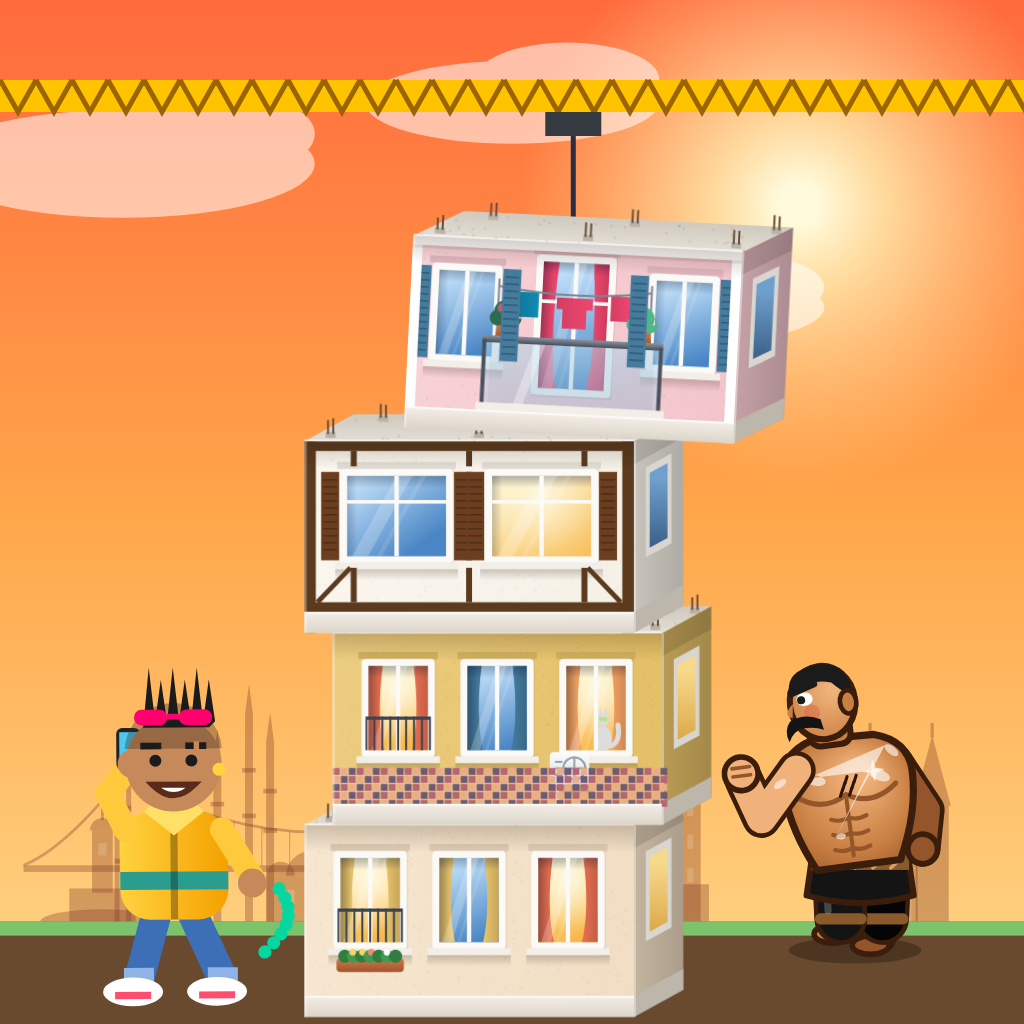
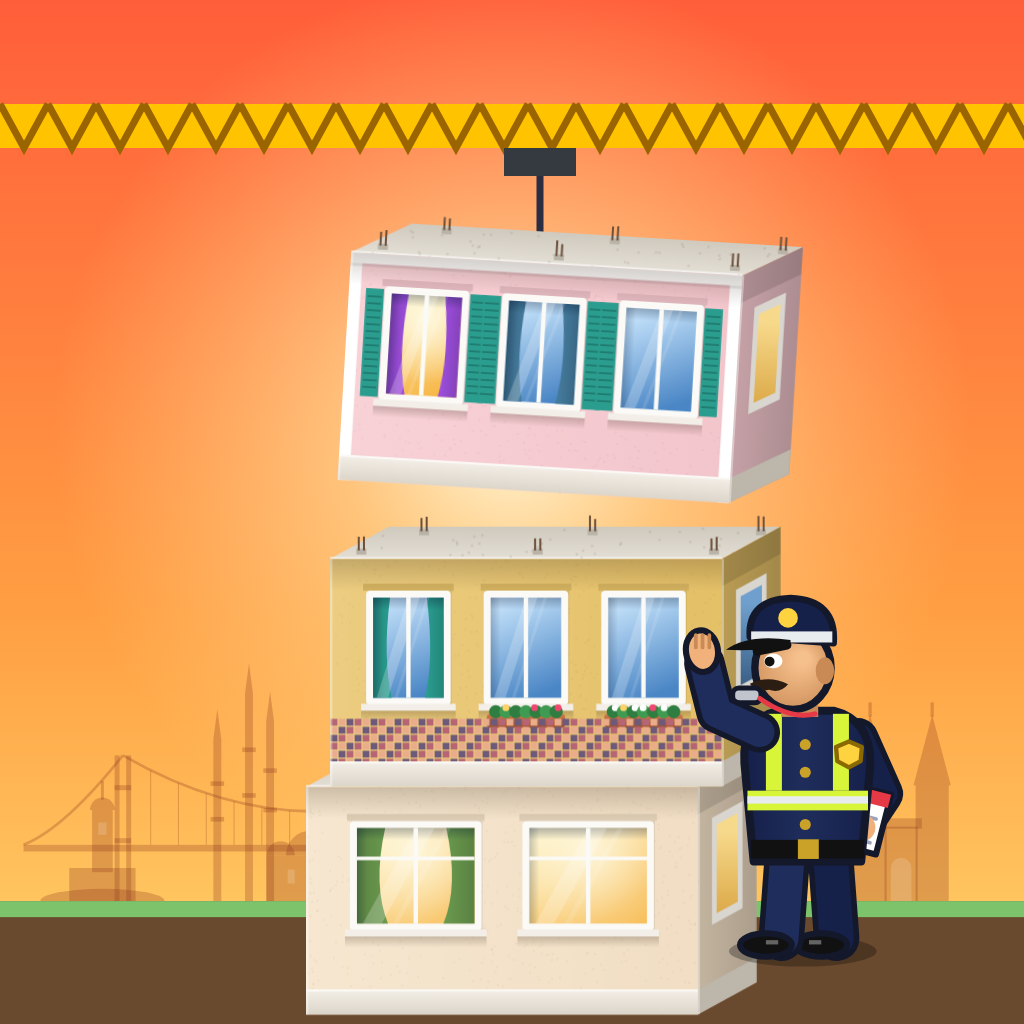
Güncelleme 2: Diyarbakır başlangıç şehri, zabıta karakteri, yeni ikon

diff --git a/app/www/index.html b/app/www/index.html
@@ -2224,8 +2224,9 @@ SONGS.karadeniz={bpm:168,root:293.66,sc:[0,2,3,5,7,9,10],mel:[0,2,3,4,3,2,0,-1,4
 SONGS.dogu={bpm:96,root:246.94,sc:[0,2,3,5,7,8,10],mel:[4,-1,3,-1,2,-1,-1,-1,0,-1,2,3,4,-1,-1,-1,5,-1,4,3,2,-1,3,-1,0,-1,-1,-1,0,-1,-1,-1],bass:[0,5,3,4],dum:[1,0,0,1,0,0,1,0],tek:[0,0,1,0,0,1,0,0],lead:'triangle'};
 SONGS.guneydogu={bpm:118,root:220,sc:[0,1,4,5,7,8,10],mel:[0,1,2,-1,2,1,0,-1,4,-1,3,2,1,-1,2,-1,4,5,6,-1,5,4,3,-1,2,1,2,-1,0,-1,-1,-1],bass:[0,3,4,0],dum:[1,0,0,1,0,1,0,0],tek:[0,1,1,0,1,0,1,1],lead:'sawtooth'};
 NEW_CITIES.forEach(C=>{SONGS[C.key]=SONGS[REGION_SONG[REGION_OF[C.key]]];});
-const STARTERS=['istanbul','izmir','adana','ankara','trabzon','erzurum','gaziantep'];
-const TIER={istanbul:0,izmir:1,adana:1,ankara:1,trabzon:1,erzurum:1,gaziantep:1,bursa:2,denizli:2,antalya:2,konya:2,rize:2,van:2,sanliurfa:2,edirne:4,bodrum:4,mersin:4,corum:4,samsun:4,kars:4,diyarbakir:4};
+const STARTERS=['istanbul','izmir','adana','ankara','trabzon','erzurum','diyarbakir'];
+{const ix=k=>CITIES.findIndex(x=>x.key===k);CITIES[ix('gaziantep')].prev=ix('diyarbakir');CITIES[ix('sanliurfa')].prev=ix('gaziantep');}
+const TIER={istanbul:0,izmir:1,adana:1,ankara:1,trabzon:1,erzurum:1,gaziantep:2,bursa:2,denizli:2,antalya:2,konya:2,rize:2,van:2,sanliurfa:4,edirne:4,bodrum:4,mersin:4,corum:4,samsun:4,kars:4,diyarbakir:1};
 const cityPrev=c=>CITIES[c].prev!=null?CITIES[c].prev:c-1;
 const bossName=c=>CITIES[c].boss||BOSSES[c];
 const bossLineOf=c=>CITIES[c].bossLine&&c>=4?CITIES[c].bossLine:BOSS_LINES[c];
@@ -2270,6 +2271,44 @@ function cityPerk(dt){const k=cityKeyNow();if(!k||cine||winT)return;const n=floo
     if(perkT<=0&&horse.x>=W*.15){perkT=Math.max(1.1,3.8-n*.14-(run.di||0)*.02);arrows.push({kind:'asker',x:horse.x+20,wy:groundWY()-30,vx:0,vy:0,hit:0,hp:2,spd:70+n*3});sBow();}}
   if(k==='edirne'&&n>=3&&!hazBusy()){perkT-=dt;if(perkT<=0&&!arrows.some(a=>a.kind==='pehlivan')){perkT=6+Math.random()*4-Math.min(2.5,(run.di||0)*.05);const dir=ch(.5)?1:-1;
       arrows.push({kind:'pehlivan',x:dir>0?-50:W+50,wy:groundWY(),dir,vx:0,vy:0,hit:0,hp:5,spd:62+(run.di||0)*.9});showBanner('PEHLİVAN GELİYOR!','Omuz atmadan 5 kere dokun!','#bc4749',1.6);babble('pehlivan','HAAYDİ ALLAH ALLAH!',true);tone(180,.4,'sawtooth',.08,-60);}}}
+function drawZabita(x,y,dir,sc){ctx.save();ctx.translate(x,y);ctx.scale(dir*(sc||1.5),sc||1.5);
+  const p=t*7,s=Math.sin(p),OL='#14182b',NV='#1f2d5c',NV2='#16214a',SK='#f0b27a',SK2='#c98a55';ctx.lineJoin='round';ctx.lineCap='round';
+  ctx.fillStyle='rgba(0,0,0,.28)';ctx.beginPath();ctx.ellipse(1,16.6,12,2.5,0,0,7);ctx.fill();
+  const seg=(pts,w,col)=>{ctx.beginPath();ctx.moveTo(pts[0],pts[1]);for(let i=2;i<pts.length;i+=2)ctx.lineTo(pts[i],pts[i+1]);ctx.strokeStyle=OL;ctx.lineWidth=w+1.8;ctx.stroke();ctx.strokeStyle=col;ctx.lineWidth=w;ctx.stroke();};
+  // bacaklar + ayakkabı
+  [[-3.5,1,NV2],[3.5,0,NV]].forEach(([hx,bk,col])=>{seg([hx,1,hx+(bk?-1:1),14.5],5.6,col);ctx.fillStyle='#111';ctx.strokeStyle=OL;ctx.lineWidth=1;ctx.beginPath();ctx.ellipse(hx+(bk?0:2)+1.5,15.6,4.2,1.9,0,0,7);ctx.fill();ctx.stroke();ctx.fillStyle='rgba(255,255,255,.35)';ctx.fillRect(hx+1.5,14.8,2,.7);});
+  // arka kol (ceza makbuzu)
+  seg([-8,-18,-12,-9,-8,-3],4.8,NV2);ctx.save();ctx.translate(-8,-4);ctx.rotate(-.25);ctx.fillStyle='#fff';ctx.strokeStyle=OL;ctx.lineWidth=1;ctx.fillRect(-4,-6,8,10);ctx.strokeRect(-4,-6,8,10);ctx.fillStyle='#e63946';ctx.fillRect(-4,-6,8,2.2);ctx.strokeStyle='#9aa3bd';ctx.lineWidth=.6;for(let i=0;i<3;i++){ctx.beginPath();ctx.moveTo(-2.6,-1.6+i*2);ctx.lineTo(2.6,-1.6+i*2);ctx.stroke();}ctx.restore();
+  ctx.fillStyle=SK;ctx.beginPath();ctx.arc(-8.5,-3.5,2.3,0,7);ctx.fill();
+  // gövde: lacivert ceket
+  const g=ctx.createLinearGradient(-10,0,10,0);g.addColorStop(0,NV2);g.addColorStop(.55,NV);g.addColorStop(1,NV2);ctx.fillStyle=g;ctx.strokeStyle=OL;ctx.lineWidth=1.3;
+  ctx.beginPath();ctx.moveTo(-8.5,2);ctx.lineTo(-10,-14);ctx.quadraticCurveTo(-10,-21,-4,-22.5);ctx.lineTo(5,-22.5);ctx.quadraticCurveTo(11,-21,10.5,-14);ctx.lineTo(9,2);ctx.closePath();ctx.fill();ctx.stroke();
+  // reflektif yelek şeritleri
+  ctx.fillStyle='#d8f53a';ctx.fillRect(-9.6,-9.5,19.6,3.2);ctx.fillStyle='#e9ecef';ctx.fillRect(-9.6,-8.6,19.6,1.2);
+  ctx.fillStyle='#d8f53a';ctx.fillRect(-6.5,-22,2.6,12.5);ctx.fillRect(4.4,-22,2.6,12.5);
+  // kemer + rozet + düğmeler
+  ctx.fillStyle='#111';ctx.fillRect(-9,-1.5,18.4,3);ctx.fillStyle='#c9a227';ctx.fillRect(-1.6,-1.6,3.4,3.2);
+  ctx.fillStyle='#ffd23f';ctx.strokeStyle='#8a6a00';ctx.lineWidth=.7;ctx.beginPath();ctx.moveTo(-6.5,-17.5);ctx.lineTo(-4.4,-16.6);ctx.lineTo(-4.6,-14.3);ctx.lineTo(-6.5,-13.3);ctx.lineTo(-8.4,-14.3);ctx.lineTo(-8.6,-16.6);ctx.closePath();ctx.fill();ctx.stroke();
+  ctx.fillStyle='#c9a227';[-17,-12.5,-4].forEach(yy=>{ctx.beginPath();ctx.arc(.6,yy,.9,0,7);ctx.fill();});
+  // boyun + kafa
+  ctx.fillStyle=SK2;ctx.fillRect(-1.5,-26,6,4.5);
+  const hg=ctx.createRadialGradient(1,-31,1,3,-29,8);hg.addColorStop(0,'#f6c08c');hg.addColorStop(1,SK2);ctx.fillStyle=hg;ctx.strokeStyle=OL;ctx.lineWidth=1.2;ctx.beginPath();ctx.ellipse(2.6,-29.5,6.2,6.8,0,0,7);ctx.fill();ctx.stroke();
+  ctx.fillStyle=SK2;ctx.beginPath();ctx.ellipse(-2.6,-29,1.5,2.2,0,0,7);ctx.fill();
+  // göz, kaş (sert bakış), bıyık, düdük
+  ctx.fillStyle='#fff';ctx.beginPath();ctx.ellipse(5.8,-30.6,1.5,1.2,0,0,7);ctx.fill();ctx.fillStyle='#111';ctx.beginPath();ctx.arc(6.4,-30.5,.8,0,7);ctx.fill();
+  ctx.strokeStyle='#111';ctx.lineWidth=1.5;ctx.beginPath();ctx.moveTo(3.6,-33.2);ctx.lineTo(8.4,-32.2);ctx.stroke();
+  ctx.fillStyle='#2b1d12';ctx.beginPath();ctx.moveTo(3.4,-26.8);ctx.quadraticCurveTo(6.5,-28.4,9.6,-26.9);ctx.quadraticCurveTo(8.8,-25.4,6.5,-25.9);ctx.quadraticCurveTo(4.6,-25.3,3.4,-26.8);ctx.fill();
+  ctx.fillStyle='#c0c4cc';ctx.strokeStyle=OL;ctx.lineWidth=.8;rr(7.8,-26.2,4.6,2.4,1);ctx.fill();ctx.stroke();ctx.strokeStyle='#e63946';ctx.lineWidth=.8;ctx.beginPath();ctx.moveTo(8,-24.5);ctx.quadraticCurveTo(3,-21,-1,-22);ctx.stroke();
+  // kasket
+  ctx.fillStyle=NV2;ctx.strokeStyle=OL;ctx.lineWidth=1.1;ctx.beginPath();ctx.moveTo(-4,-33.5);ctx.quadraticCurveTo(-4.5,-40.5,3,-40.8);ctx.quadraticCurveTo(10,-40.5,9.6,-34.5);ctx.closePath();ctx.fill();ctx.stroke();
+  ctx.fillStyle='#e9ecef';ctx.fillRect(-3.8,-35.4,13.2,1.8);
+  ctx.fillStyle='#111';ctx.beginPath();ctx.moveTo(3,-34);ctx.quadraticCurveTo(10,-35,13.5,-32.4);ctx.quadraticCurveTo(9,-32.2,3,-32.8);ctx.closePath();ctx.fill();
+  ctx.fillStyle='#ffd23f';ctx.beginPath();ctx.arc(3.4,-37.6,1.6,0,7);ctx.fill();
+  // ön kol: "DUR!" eli havada
+  const a=s*1.2;seg([8,-19,15,-21+a,17,-29+a],4.8,NV);ctx.fillStyle=SK;ctx.strokeStyle=OL;ctx.lineWidth=1;ctx.beginPath();ctx.ellipse(17.4,-31+a,2.6,3.4,.15,0,7);ctx.fill();ctx.stroke();
+  ctx.strokeStyle=SK2;ctx.lineWidth=.6;for(let i=0;i<3;i++){ctx.beginPath();ctx.moveTo(16.2+i*1.1,-33.6+a);ctx.lineTo(16.2+i*1.1,-31.6+a);ctx.stroke();}
+  ctx.restore();}
+
 function drawPehlivan(x,y,dir,hp){ctx.save();ctx.translate(x,y);ctx.scale(dir*1.5,1.5);
   const p=t*9,s=Math.sin(p),c=Math.cos(p),bob=Math.abs(s)*1.1;
   const OL='#3b1d0c',S1='#f0b27a',S2='#c97f42',S3='#94552a',KS='#141414';

diff --git a/index.html b/index.html
@@ -2225,8 +2225,9 @@ SONGS.karadeniz={bpm:168,root:293.66,sc:[0,2,3,5,7,9,10],mel:[0,2,3,4,3,2,0,-1,4
 SONGS.dogu={bpm:96,root:246.94,sc:[0,2,3,5,7,8,10],mel:[4,-1,3,-1,2,-1,-1,-1,0,-1,2,3,4,-1,-1,-1,5,-1,4,3,2,-1,3,-1,0,-1,-1,-1,0,-1,-1,-1],bass:[0,5,3,4],dum:[1,0,0,1,0,0,1,0],tek:[0,0,1,0,0,1,0,0],lead:'triangle'};
 SONGS.guneydogu={bpm:118,root:220,sc:[0,1,4,5,7,8,10],mel:[0,1,2,-1,2,1,0,-1,4,-1,3,2,1,-1,2,-1,4,5,6,-1,5,4,3,-1,2,1,2,-1,0,-1,-1,-1],bass:[0,3,4,0],dum:[1,0,0,1,0,1,0,0],tek:[0,1,1,0,1,0,1,1],lead:'sawtooth'};
 NEW_CITIES.forEach(C=>{SONGS[C.key]=SONGS[REGION_SONG[REGION_OF[C.key]]];});
-const STARTERS=['istanbul','izmir','adana','ankara','trabzon','erzurum','gaziantep'];
-const TIER={istanbul:0,izmir:1,adana:1,ankara:1,trabzon:1,erzurum:1,gaziantep:1,bursa:2,denizli:2,antalya:2,konya:2,rize:2,van:2,sanliurfa:2,edirne:4,bodrum:4,mersin:4,corum:4,samsun:4,kars:4,diyarbakir:4};
+const STARTERS=['istanbul','izmir','adana','ankara','trabzon','erzurum','diyarbakir'];
+{const ix=k=>CITIES.findIndex(x=>x.key===k);CITIES[ix('gaziantep')].prev=ix('diyarbakir');CITIES[ix('sanliurfa')].prev=ix('gaziantep');}
+const TIER={istanbul:0,izmir:1,adana:1,ankara:1,trabzon:1,erzurum:1,gaziantep:2,bursa:2,denizli:2,antalya:2,konya:2,rize:2,van:2,sanliurfa:4,edirne:4,bodrum:4,mersin:4,corum:4,samsun:4,kars:4,diyarbakir:1};
 const cityPrev=c=>CITIES[c].prev!=null?CITIES[c].prev:c-1;
 const bossName=c=>CITIES[c].boss||BOSSES[c];
 const bossLineOf=c=>CITIES[c].bossLine&&c>=4?CITIES[c].bossLine:BOSS_LINES[c];
@@ -2271,6 +2272,44 @@ function cityPerk(dt){const k=cityKeyNow();if(!k||cine||winT)return;const n=floo
     if(perkT<=0&&horse.x>=W*.15){perkT=Math.max(1.1,3.8-n*.14-(run.di||0)*.02);arrows.push({kind:'asker',x:horse.x+20,wy:groundWY()-30,vx:0,vy:0,hit:0,hp:2,spd:70+n*3});sBow();}}
   if(k==='edirne'&&n>=3&&!hazBusy()){perkT-=dt;if(perkT<=0&&!arrows.some(a=>a.kind==='pehlivan')){perkT=6+Math.random()*4-Math.min(2.5,(run.di||0)*.05);const dir=ch(.5)?1:-1;
       arrows.push({kind:'pehlivan',x:dir>0?-50:W+50,wy:groundWY(),dir,vx:0,vy:0,hit:0,hp:5,spd:62+(run.di||0)*.9});showBanner('PEHLİVAN GELİYOR!','Omuz atmadan 5 kere dokun!','#bc4749',1.6);babble('pehlivan','HAAYDİ ALLAH ALLAH!',true);tone(180,.4,'sawtooth',.08,-60);}}}
+function drawZabita(x,y,dir,sc){ctx.save();ctx.translate(x,y);ctx.scale(dir*(sc||1.5),sc||1.5);
+  const p=t*7,s=Math.sin(p),OL='#14182b',NV='#1f2d5c',NV2='#16214a',SK='#f0b27a',SK2='#c98a55';ctx.lineJoin='round';ctx.lineCap='round';
+  ctx.fillStyle='rgba(0,0,0,.28)';ctx.beginPath();ctx.ellipse(1,16.6,12,2.5,0,0,7);ctx.fill();
+  const seg=(pts,w,col)=>{ctx.beginPath();ctx.moveTo(pts[0],pts[1]);for(let i=2;i<pts.length;i+=2)ctx.lineTo(pts[i],pts[i+1]);ctx.strokeStyle=OL;ctx.lineWidth=w+1.8;ctx.stroke();ctx.strokeStyle=col;ctx.lineWidth=w;ctx.stroke();};
+  // bacaklar + ayakkabı
+  [[-3.5,1,NV2],[3.5,0,NV]].forEach(([hx,bk,col])=>{seg([hx,1,hx+(bk?-1:1),14.5],5.6,col);ctx.fillStyle='#111';ctx.strokeStyle=OL;ctx.lineWidth=1;ctx.beginPath();ctx.ellipse(hx+(bk?0:2)+1.5,15.6,4.2,1.9,0,0,7);ctx.fill();ctx.stroke();ctx.fillStyle='rgba(255,255,255,.35)';ctx.fillRect(hx+1.5,14.8,2,.7);});
+  // arka kol (ceza makbuzu)
+  seg([-8,-18,-12,-9,-8,-3],4.8,NV2);ctx.save();ctx.translate(-8,-4);ctx.rotate(-.25);ctx.fillStyle='#fff';ctx.strokeStyle=OL;ctx.lineWidth=1;ctx.fillRect(-4,-6,8,10);ctx.strokeRect(-4,-6,8,10);ctx.fillStyle='#e63946';ctx.fillRect(-4,-6,8,2.2);ctx.strokeStyle='#9aa3bd';ctx.lineWidth=.6;for(let i=0;i<3;i++){ctx.beginPath();ctx.moveTo(-2.6,-1.6+i*2);ctx.lineTo(2.6,-1.6+i*2);ctx.stroke();}ctx.restore();
+  ctx.fillStyle=SK;ctx.beginPath();ctx.arc(-8.5,-3.5,2.3,0,7);ctx.fill();
+  // gövde: lacivert ceket
+  const g=ctx.createLinearGradient(-10,0,10,0);g.addColorStop(0,NV2);g.addColorStop(.55,NV);g.addColorStop(1,NV2);ctx.fillStyle=g;ctx.strokeStyle=OL;ctx.lineWidth=1.3;
+  ctx.beginPath();ctx.moveTo(-8.5,2);ctx.lineTo(-10,-14);ctx.quadraticCurveTo(-10,-21,-4,-22.5);ctx.lineTo(5,-22.5);ctx.quadraticCurveTo(11,-21,10.5,-14);ctx.lineTo(9,2);ctx.closePath();ctx.fill();ctx.stroke();
+  // reflektif yelek şeritleri
+  ctx.fillStyle='#d8f53a';ctx.fillRect(-9.6,-9.5,19.6,3.2);ctx.fillStyle='#e9ecef';ctx.fillRect(-9.6,-8.6,19.6,1.2);
+  ctx.fillStyle='#d8f53a';ctx.fillRect(-6.5,-22,2.6,12.5);ctx.fillRect(4.4,-22,2.6,12.5);
+  // kemer + rozet + düğmeler
+  ctx.fillStyle='#111';ctx.fillRect(-9,-1.5,18.4,3);ctx.fillStyle='#c9a227';ctx.fillRect(-1.6,-1.6,3.4,3.2);
+  ctx.fillStyle='#ffd23f';ctx.strokeStyle='#8a6a00';ctx.lineWidth=.7;ctx.beginPath();ctx.moveTo(-6.5,-17.5);ctx.lineTo(-4.4,-16.6);ctx.lineTo(-4.6,-14.3);ctx.lineTo(-6.5,-13.3);ctx.lineTo(-8.4,-14.3);ctx.lineTo(-8.6,-16.6);ctx.closePath();ctx.fill();ctx.stroke();
+  ctx.fillStyle='#c9a227';[-17,-12.5,-4].forEach(yy=>{ctx.beginPath();ctx.arc(.6,yy,.9,0,7);ctx.fill();});
+  // boyun + kafa
+  ctx.fillStyle=SK2;ctx.fillRect(-1.5,-26,6,4.5);
+  const hg=ctx.createRadialGradient(1,-31,1,3,-29,8);hg.addColorStop(0,'#f6c08c');hg.addColorStop(1,SK2);ctx.fillStyle=hg;ctx.strokeStyle=OL;ctx.lineWidth=1.2;ctx.beginPath();ctx.ellipse(2.6,-29.5,6.2,6.8,0,0,7);ctx.fill();ctx.stroke();
+  ctx.fillStyle=SK2;ctx.beginPath();ctx.ellipse(-2.6,-29,1.5,2.2,0,0,7);ctx.fill();
+  // göz, kaş (sert bakış), bıyık, düdük
+  ctx.fillStyle='#fff';ctx.beginPath();ctx.ellipse(5.8,-30.6,1.5,1.2,0,0,7);ctx.fill();ctx.fillStyle='#111';ctx.beginPath();ctx.arc(6.4,-30.5,.8,0,7);ctx.fill();
+  ctx.strokeStyle='#111';ctx.lineWidth=1.5;ctx.beginPath();ctx.moveTo(3.6,-33.2);ctx.lineTo(8.4,-32.2);ctx.stroke();
+  ctx.fillStyle='#2b1d12';ctx.beginPath();ctx.moveTo(3.4,-26.8);ctx.quadraticCurveTo(6.5,-28.4,9.6,-26.9);ctx.quadraticCurveTo(8.8,-25.4,6.5,-25.9);ctx.quadraticCurveTo(4.6,-25.3,3.4,-26.8);ctx.fill();
+  ctx.fillStyle='#c0c4cc';ctx.strokeStyle=OL;ctx.lineWidth=.8;rr(7.8,-26.2,4.6,2.4,1);ctx.fill();ctx.stroke();ctx.strokeStyle='#e63946';ctx.lineWidth=.8;ctx.beginPath();ctx.moveTo(8,-24.5);ctx.quadraticCurveTo(3,-21,-1,-22);ctx.stroke();
+  // kasket
+  ctx.fillStyle=NV2;ctx.strokeStyle=OL;ctx.lineWidth=1.1;ctx.beginPath();ctx.moveTo(-4,-33.5);ctx.quadraticCurveTo(-4.5,-40.5,3,-40.8);ctx.quadraticCurveTo(10,-40.5,9.6,-34.5);ctx.closePath();ctx.fill();ctx.stroke();
+  ctx.fillStyle='#e9ecef';ctx.fillRect(-3.8,-35.4,13.2,1.8);
+  ctx.fillStyle='#111';ctx.beginPath();ctx.moveTo(3,-34);ctx.quadraticCurveTo(10,-35,13.5,-32.4);ctx.quadraticCurveTo(9,-32.2,3,-32.8);ctx.closePath();ctx.fill();
+  ctx.fillStyle='#ffd23f';ctx.beginPath();ctx.arc(3.4,-37.6,1.6,0,7);ctx.fill();
+  // ön kol: "DUR!" eli havada
+  const a=s*1.2;seg([8,-19,15,-21+a,17,-29+a],4.8,NV);ctx.fillStyle=SK;ctx.strokeStyle=OL;ctx.lineWidth=1;ctx.beginPath();ctx.ellipse(17.4,-31+a,2.6,3.4,.15,0,7);ctx.fill();ctx.stroke();
+  ctx.strokeStyle=SK2;ctx.lineWidth=.6;for(let i=0;i<3;i++){ctx.beginPath();ctx.moveTo(16.2+i*1.1,-33.6+a);ctx.lineTo(16.2+i*1.1,-31.6+a);ctx.stroke();}
+  ctx.restore();}
+
 function drawPehlivan(x,y,dir,hp){ctx.save();ctx.translate(x,y);ctx.scale(dir*1.5,1.5);
   const p=t*9,s=Math.sin(p),c=Math.cos(p),bob=Math.abs(s)*1.1;
   const OL='#3b1d0c',S1='#f0b27a',S2='#c97f42',S3='#94552a',KS='#141414';
